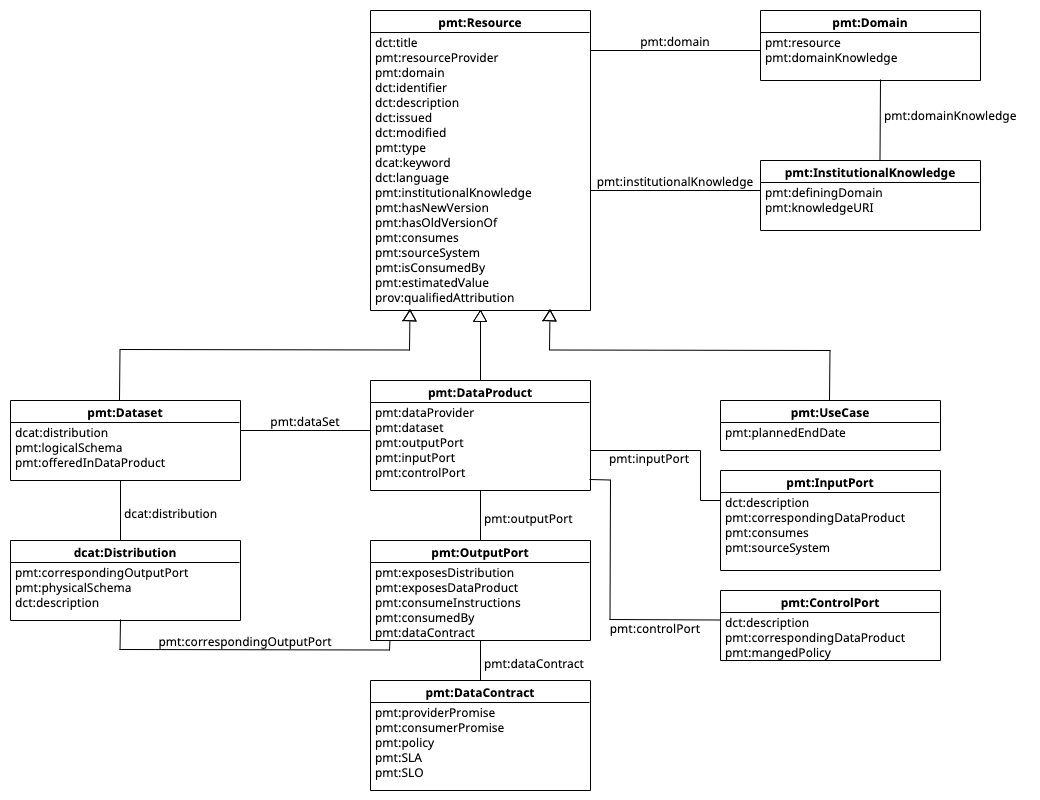
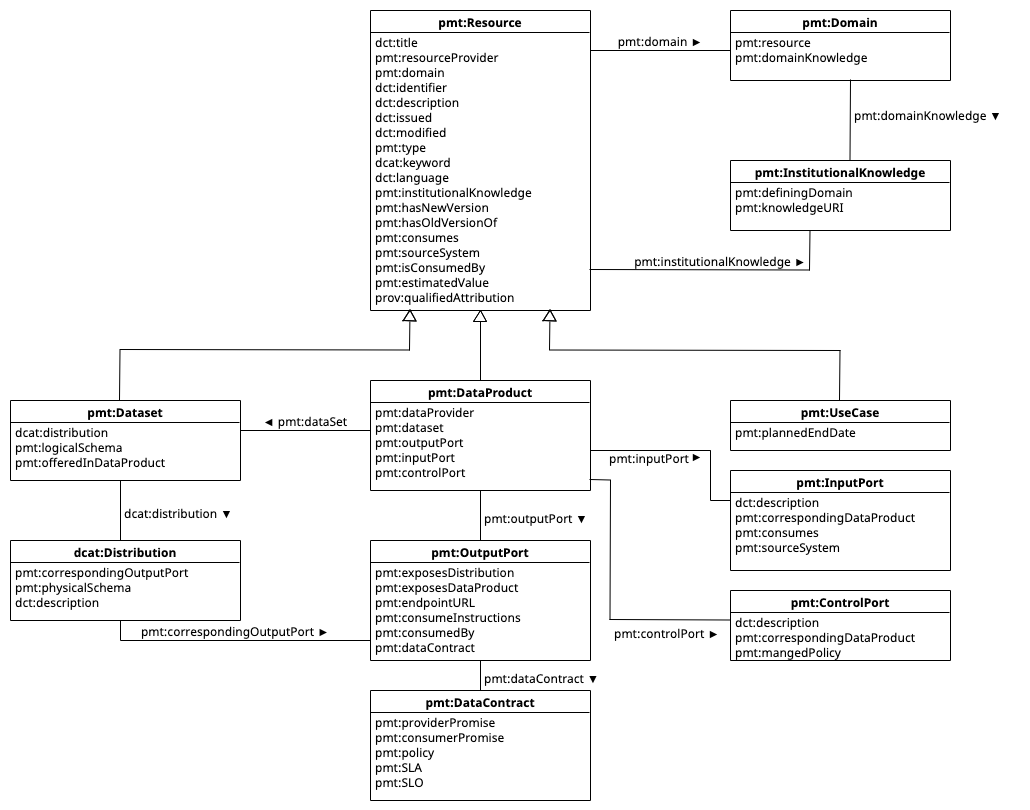
Added endpointURL

diff --git a/ProMoTe.md b/ProMoTe.md
@@ -1,15 +1,8 @@
 # ProMoTe
 
 ## TODO:
-- [x] Check and update hyperlinks as needed.
-- [x] Add data and logical schema information in the right places w. Jaco.
-- [x] Add additional information surrounding data contracrts.
-- [x] Add short descriptions before each class.
-- [x] Consider cardinality  with MAY, MUST, etc.
-- [x] Add an intro that explains what this is and where we borrow from.`
-- [x] Add and update UML-diagram.
-- [x] Manually style all the tables to fit the width of the page.
-- [x] Critically reread everything.
+- [ ] Add worked out example.
+- [ ] Update cardinality based on maturity levels.
 
 ### Disclaimer 
 ProMoTe is under active development and evaluation from both the academic community and our industrial partners. If you intend to use this standard, feel free to reach out with questions and or feedback.
@@ -74,6 +67,7 @@ This document is licensed under the [Creative Commons BY 4.0](https://creativeco
     - [Class: Output Port](#class-output-port)
       - [Property: Exposes Distribution](#property-exposes-distribution)
       - [Property: Data Product](#property-exposes-data-product)
+      - [Property: endpointURL](#property-endpoint-url)
       - [Property: Consume Instructions](#property-consume-instructions)
       - [Property: Consumed By](#output-port-property-consumed-by)
       - [Property: Data Contract](#property-data-contract)
@@ -1278,7 +1272,31 @@ The following properties are specific to this class: [distribution](#output-port
     </tr>
   </tbody>
 </table>
-  
+
+#### Property: Endpoint URI
+<table>
+  <thead>
+    <tr>
+      <th width="240px"><strong>Property</strong></th>
+      <th width="760px"><span style="font-weight:normal"><a href="#property=consume-instructions">pmt:consumeInstructions</a></span></th>
+    </tr>
+  </thead>
+  <tbody>
+    <tr>
+      <td>Definition</td>
+      <td>A unique URI for the endpoint of this output port.</td>
+    </tr>
+    <tr>
+      <td>See Also of:</td>
+      <td><a href="https://www.w3.org/TR/vocab-dcat-2/#Property:data_service_endpoint_url">dcat:endpointURL</a></td>
+    </tr>
+    <tr>
+      <td>Motivation:</td>
+      <td>Unique endpoints contribute to Addressability and Native Accessibility.</td>
+    </tr>
+  </tbody>
+</table>
+
 #### Property: Consume Instructions
 <table>
   <thead>
@@ -1291,6 +1309,10 @@ The following properties are specific to this class: [distribution](#output-port
     <tr>
       <td>Definition</td>
       <td>Human-readable instructions on how to consume data through this output port.</td>
+    </tr>
+    <tr>
+      <td>SubProperty of:</td>
+      <td><a href="https://www.w3.org/TR/vocab-dcat-2/#Property:data_service_endpoint_description">dcat:endpointDescription</a></td>
     </tr>
     <tr>
       <td>Usage note:</td>

diff --git a/README.md b/README.md
@@ -63,6 +63,7 @@ This document is licensed under the [Creative Commons BY 4.0](https://creativeco
     - [Class: Output Port](#class-output-port)
       - [Property: Exposes Distribution](#property-exposes-distribution)
       - [Property: Data Product](#property-exposes-data-product)
+      - [Property: endpointURL](#property-endpoint-url)
       - [Property: Consume Instructions](#property-consume-instructions)
       - [Property: Consumed By](#output-port-property-consumed-by)
       - [Property: Data Contract](#property-data-contract)
@@ -1267,7 +1268,31 @@ The following properties are specific to this class: [distribution](#output-port
     </tr>
   </tbody>
 </table>
-  
+
+#### Property: Endpoint URI
+<table>
+  <thead>
+    <tr>
+      <th width="240px"><strong>Property</strong></th>
+      <th width="760px"><span style="font-weight:normal"><a href="#property=consume-instructions">pmt:consumeInstructions</a></span></th>
+    </tr>
+  </thead>
+  <tbody>
+    <tr>
+      <td>Definition</td>
+      <td>A unique URI for the endpoint of this output port.</td>
+    </tr>
+    <tr>
+      <td>See Also of:</td>
+      <td><a href="https://www.w3.org/TR/vocab-dcat-2/#Property:data_service_endpoint_url">dcat:endpointURL</a></td>
+    </tr>
+    <tr>
+      <td>Motivation:</td>
+      <td>Unique endpoints contribute to Addressability and Native Accessibility.</td>
+    </tr>
+  </tbody>
+</table>
+
 #### Property: Consume Instructions
 <table>
   <thead>
@@ -1280,6 +1305,10 @@ The following properties are specific to this class: [distribution](#output-port
     <tr>
       <td>Definition</td>
       <td>Human-readable instructions on how to consume data through this output port.</td>
+    </tr>
+    <tr>
+      <td>SubProperty of:</td>
+      <td><a href="https://www.w3.org/TR/vocab-dcat-2/#Property:data_service_endpoint_description">dcat:endpointDescription</a></td>
     </tr>
     <tr>
       <td>Usage note:</td>
